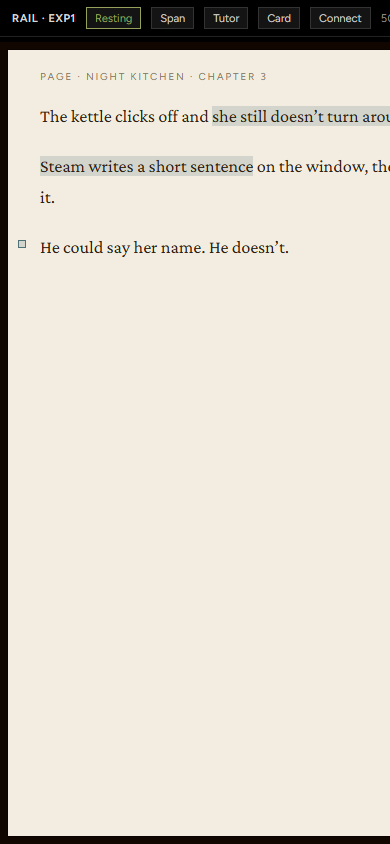
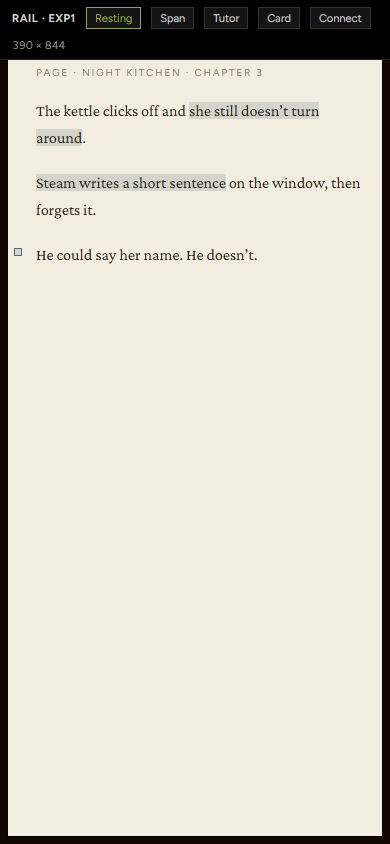
Shoot the rail mockup at 390px with no sideways overflow.

Changed region(s): [[0.0, 0.0, 1.0, 1.0], [0.0308, 0.2773, 0.0615, 0.3081]]

diff --git a/docs/mockups/rail/index.html b/docs/mockups/rail/index.html
@@ -50,12 +50,13 @@
   }
 
   * { box-sizing: border-box; margin: 0; padding: 0; border-radius: 0; }
-  html, body { height: 100%; }
+  html, body { height: 100%; overflow-x: hidden; }
   body {
     background: #000;
     color: var(--text-hi);
     font-family: var(--font-ui);
     overflow: hidden;
+    max-width: 100%;
   }
   button, input { font: inherit; color: inherit; background: none; border: 0; cursor: pointer; }
   [hidden] { display: none !important; }
@@ -66,6 +67,7 @@
     padding: 7px 12px;
     background: #000; border-bottom: 1px solid #222;
     font-size: 11px; color: #9a9a9a;
+    max-width: 100%; overflow-x: hidden;
   }
   .rig b { color: #d8d8d8; font-weight: 600; letter-spacing: .06em; }
   .rig .rev {
@@ -305,7 +307,10 @@
 
   @media (max-width: 720px) {
     .rig .hint { display: none; }
-    .stage { grid-template-columns: 1fr; width: 100%; }
+    .fit, .stage, .page-col, .sheet, .zone5, .card, .connect {
+      min-width: 0; max-width: 100%;
+    }
+    .stage { grid-template-columns: minmax(0, 1fr); width: 100%; overflow: hidden; }
     .desk { display: none; }
     .zone5 { display: none; border-left: none; }
     body[data-panel='linked'] .page-col,
@@ -314,12 +319,13 @@
     body[data-panel='tutor'] .zone5 { display: flex; }
     body[data-panel='tutor'] .linked-pane { display: none; }
     body[data-panel='linked'] .tutor-pane { display: none; }
-    .sheet { inset: 8px; padding: 20px 22px 28px 32px; }
-    .sheet p { overflow-wrap: anywhere; }
-    .overlay, .page-pop { inset: 8px; }
-    .card { width: 100%; }
-    .connect { position: static; margin-top: 8px; }
-    .thumbs { grid-template-columns: repeat(2, 1fr); }
+    .sheet { inset: 8px; padding: 16px 14px 24px 28px; overflow-x: hidden; }
+    .sheet p { overflow-wrap: anywhere; word-break: break-word; font-size: 16px; }
+    .overlay, .page-pop { inset: 8px; max-width: 100%; overflow-x: hidden; }
+    .card { width: 100%; max-width: 100%; overflow-x: hidden; }
+    .card-foot { gap: 8px; min-width: 0; }
+    .connect { position: static; margin-top: 8px; max-width: 100%; }
+    .thumbs { grid-template-columns: repeat(2, minmax(0, 1fr)); }
     .phone-back {
       display: block; padding: 8px 12px;
       font-size: 11px; letter-spacing: .08em; text-transform: uppercase;
